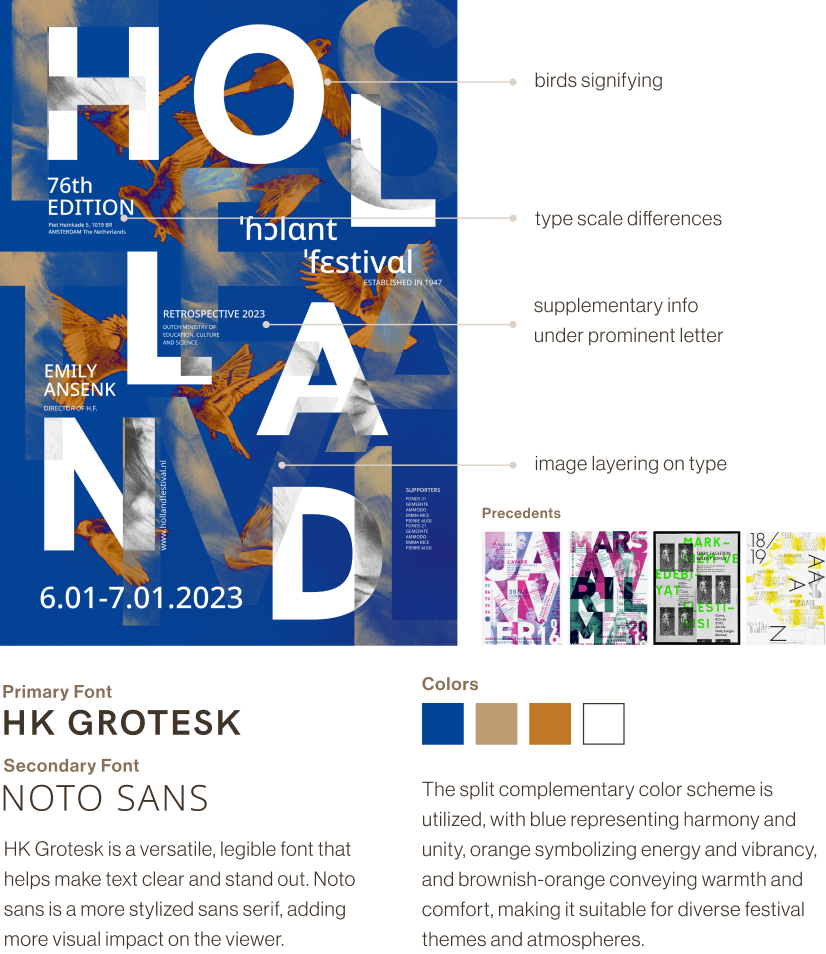
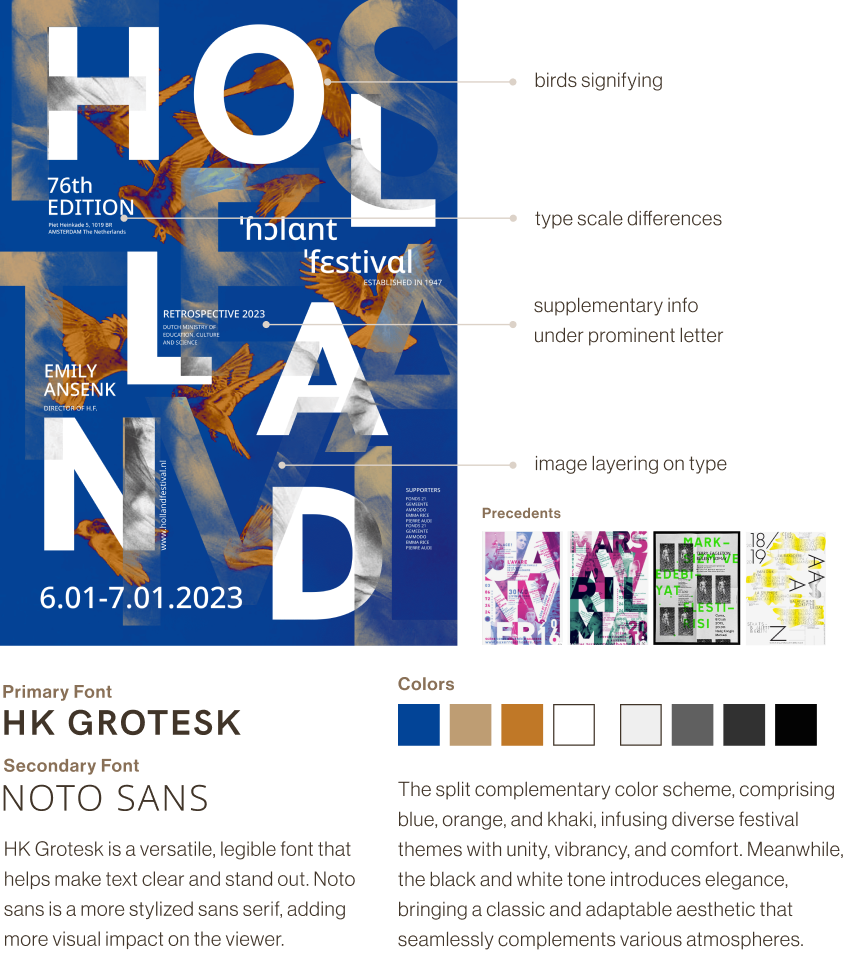
update bw poster

diff --git a/holland.html b/holland.html
@@ -68,10 +68,14 @@
       <img src="img/holland/colour-text-mobile.png" alt="holland-colour-text-mobile" class="project-mobile">
       <img src="img/holland/holland-colour.png" alt="holland-colour">
       <br>
+      <img src="img/holland/poster1.png" alt="holland-poster1">
       <img src="img/holland/graphical1-text.png" alt="holland-graphical1-text" class="project-web">
       <img src="img/holland/graphical1-text-mobile.png" alt="holland-graphical1-text-mobile" class="project-mobile">
       <img src="img/holland/graphical1.png" alt="holland-graphical1" class="project-web">
       <img src="img/holland/graphical1-mobile.png" alt="holland-graphical1-mobile" class="project-mobile">
+      <img src="img/holland/graphical1-1.png" alt="holland-graphical1-1" class="project-web">
+      <img src="img/holland/graphical1-1-mobile.png" alt="holland-graphical1-1-mobile" class="project-mobile">
+
       <br>
       <img src="img/holland/direction2-text.png" alt="holland-direction2" class="project-web">
       <img src="img/holland/direction2-text-mobile.png" alt="holland-direction2-mobile" class="project-mobile">
